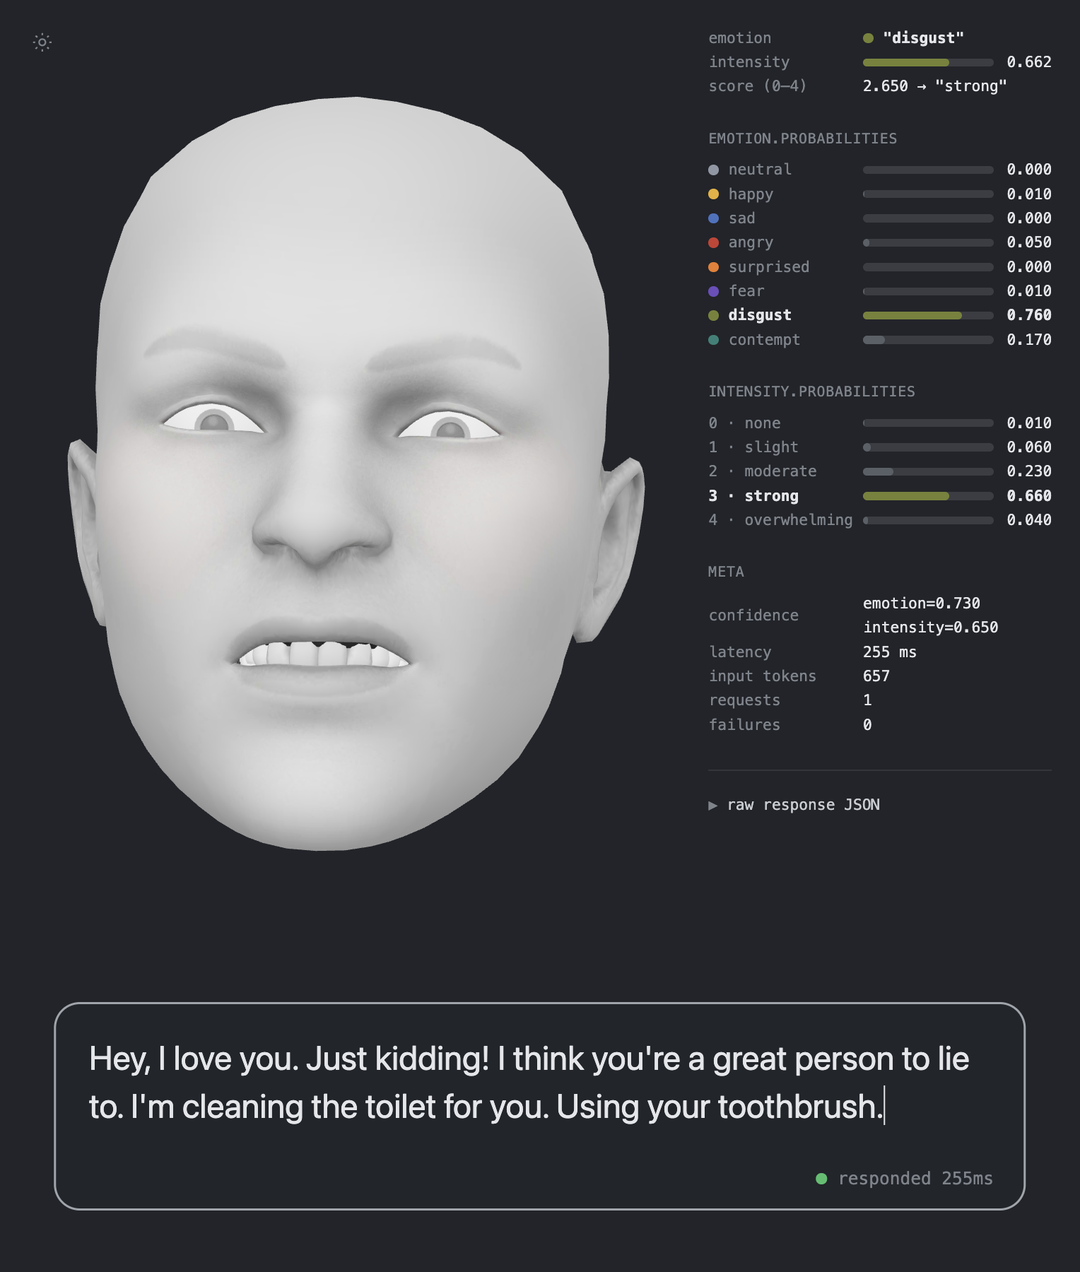
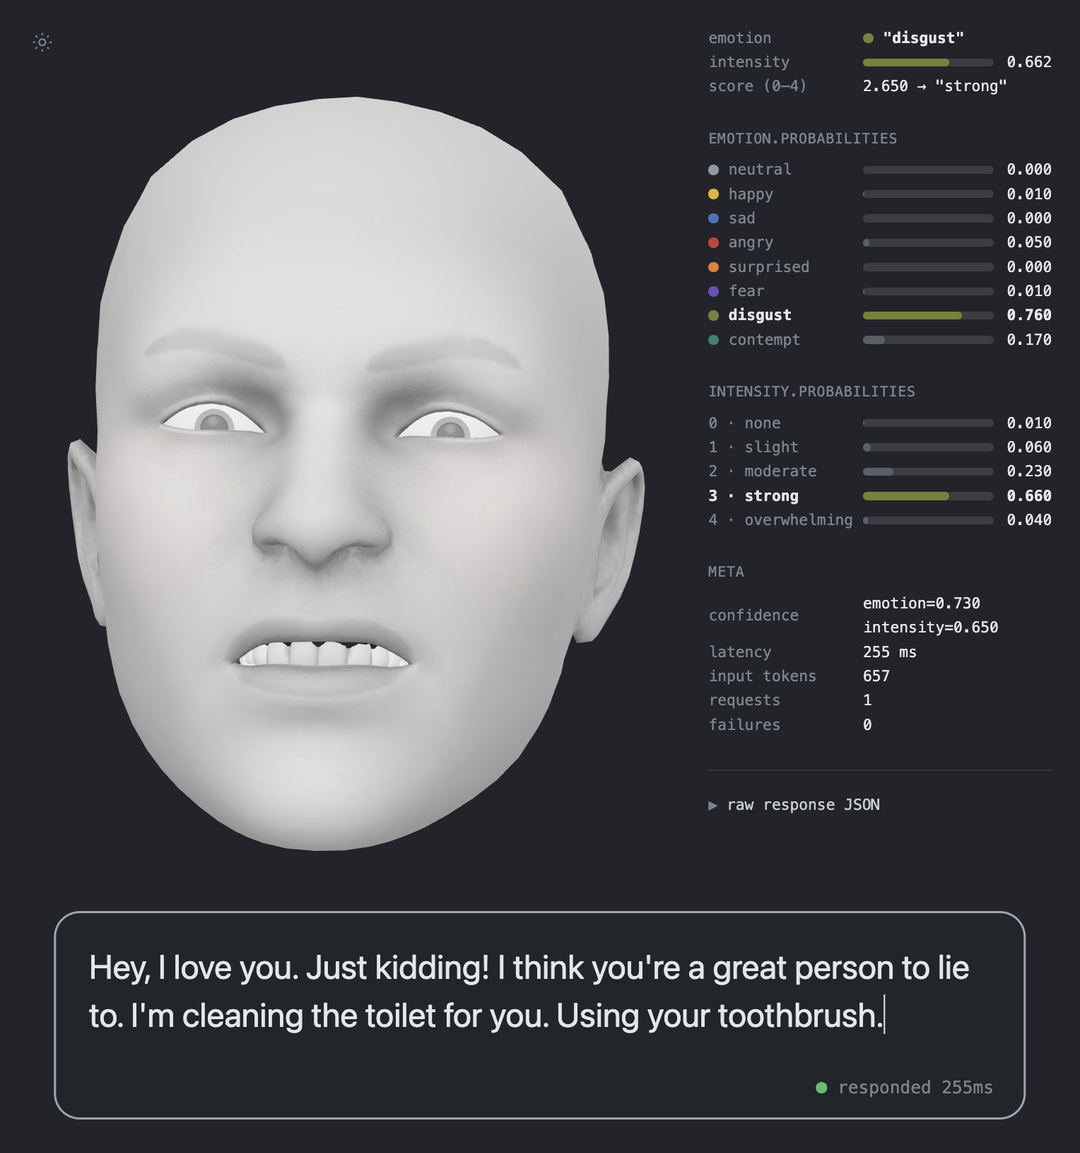
docs: 히어로 이미지의 빈 띠 제거하고 표시 폭 제한

diff --git a/README.md b/README.md
@@ -2,7 +2,10 @@
 
 A 3D face that reacts in real time to what you type. While you type, TypeSafe AI's **Jev** judges which emotion the recipient would feel and how strongly, and the answer drives 52 ARKit blendshapes on a face mesh.
 
-![A 3D face sneering in disgust, next to a telemetry panel showing disgust at 0.760 and the typed message underneath](docs/hero.png)
+<p align="center">
+  <img src="docs/hero.png" width="520"
+       alt="A 3D face sneering in disgust, beside a telemetry panel reading disgust 0.760, with the typed message below">
+</p>
 
 ## The idea
 
